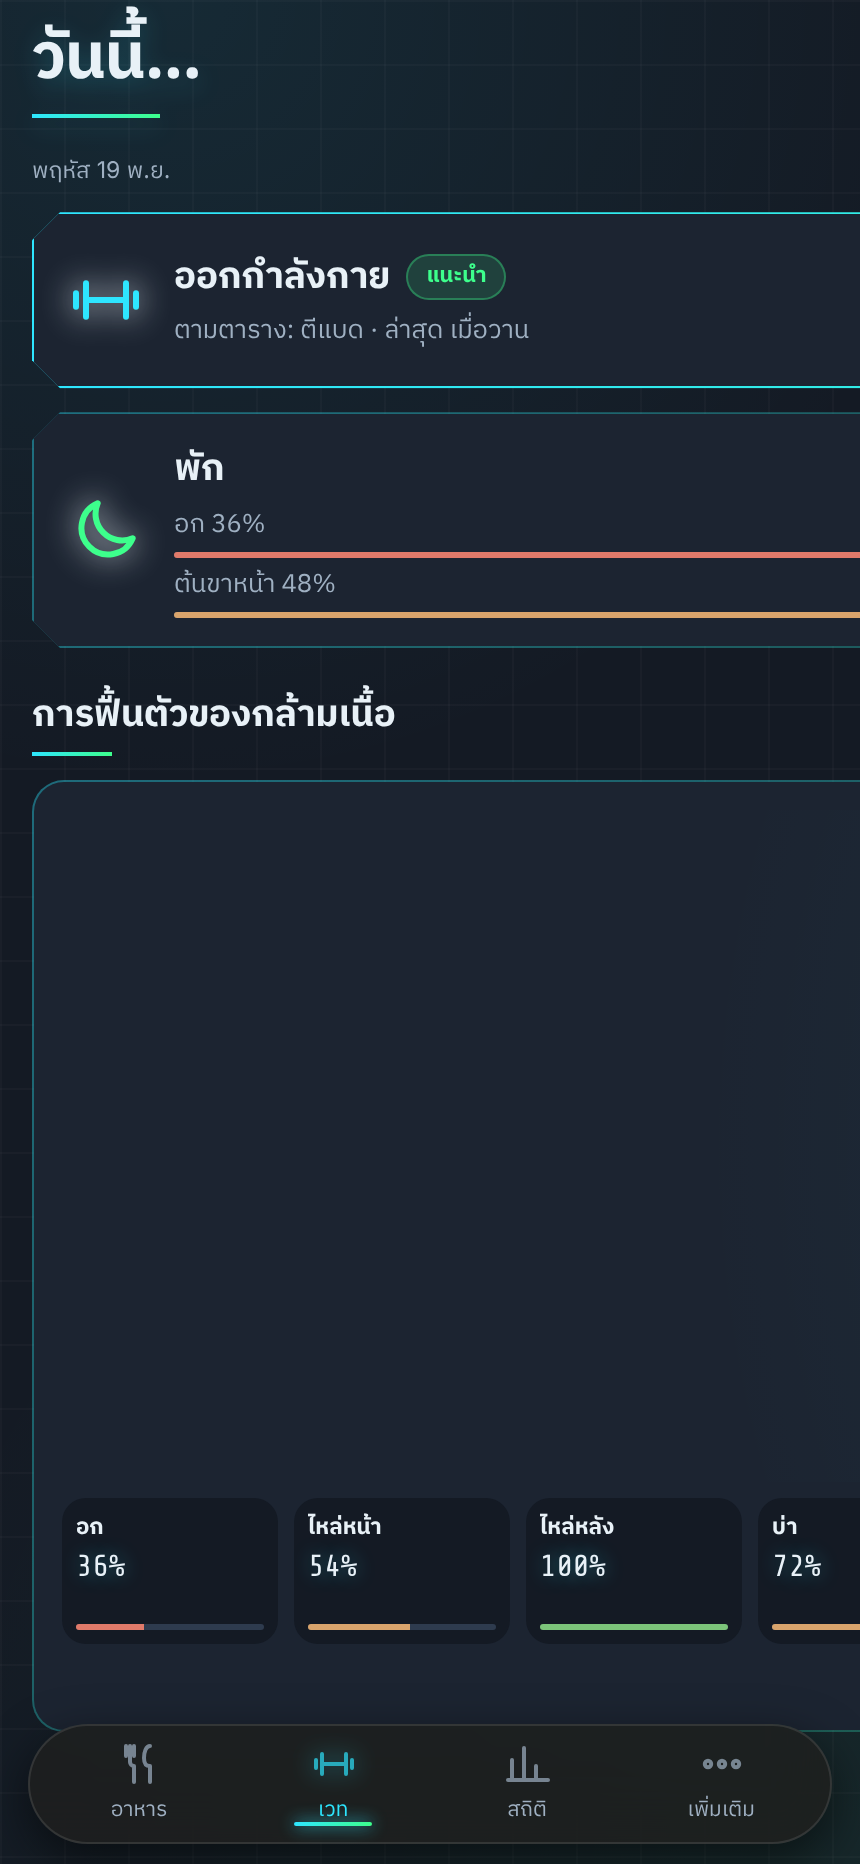
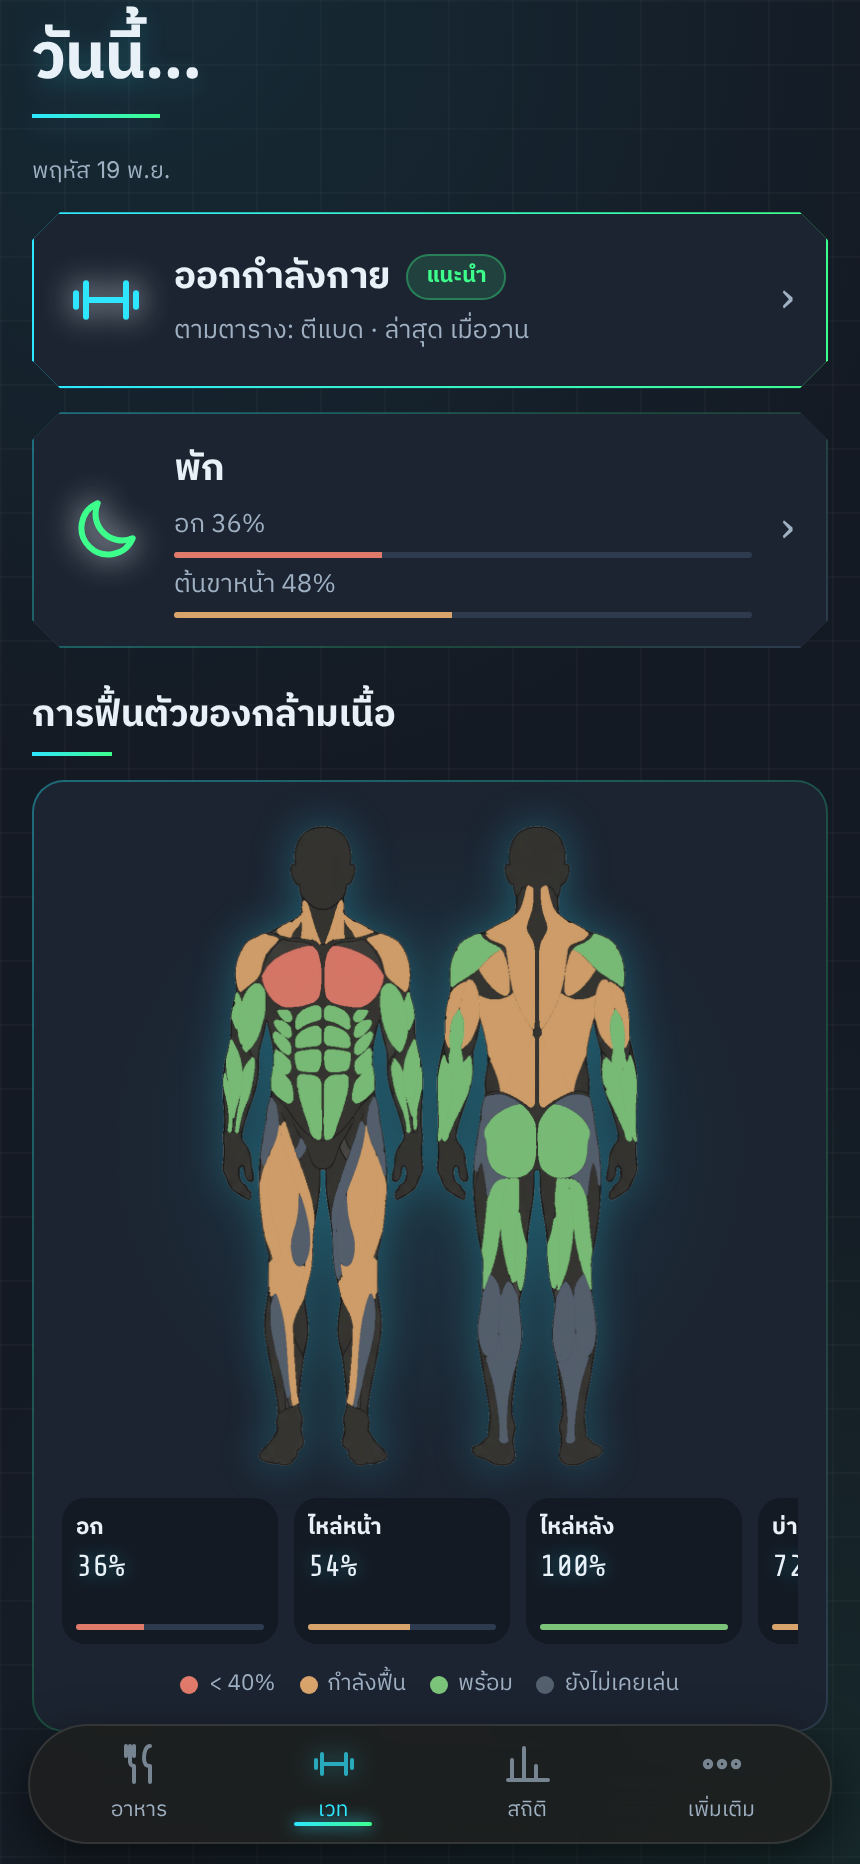
Today: fix width with recovery card
Claude-Session: https://claude.ai/code/session_01TA1QFkMVywvGJMZnY2b9UN

diff --git a/public/index.html b/public/index.html
@@ -8,11 +8,11 @@
 <meta name="apple-mobile-web-app-status-bar-style" content="black-translucent">
 <meta name="apple-mobile-web-app-title" content="Fuel & Lift">
 <link rel="manifest" href="/manifest.webmanifest">
-<link rel="apple-touch-icon" href="/apple-touch-icon.png?v=072600">
+<link rel="apple-touch-icon" href="/apple-touch-icon.png?v=072700">
 <title>Fuel &amp; Lift Log</title>
 <link rel="stylesheet" href="https://fonts.googleapis.com/css2?family=IBM+Plex+Sans+Thai:wght@400;500;700&family=IBM+Plex+Mono:wght@400;500&family=Noto+Serif+Thai:wght@400;500&family=Share+Tech+Mono&family=Orbitron:wght@500;700&display=swap">
 <style>:root{padding-top:env(safe-area-inset-top,0px);padding-bottom:env(safe-area-inset-bottom,0px)}*{-webkit-tap-highlight-color:transparent}body{margin:0;font-size:14px;font-family:system-ui,sans-serif}img{max-width:100%}[hidden]{display:none!important}</style>
-<link rel="stylesheet" href="/css/app.css?v=072600">
+<link rel="stylesheet" href="/css/app.css?v=072700">
 </head><body>
 
 <div class="wrap">
@@ -238,28 +238,28 @@
   </div>
 </div>
 
-<script src="/js/core.js?v=072600"></script>
-<script src="/js/food.js?v=072600"></script>
-<script src="/js/locations.js?v=072600"></script>
-<script src="/js/programs.js?v=072600"></script>
-<script src="/js/run.js?v=072600"></script>
-<script src="/js/workout.js?v=072600"></script>
-<script src="/js/exercise-edit.js?v=072600"></script>
-<script src="/js/exercise-library.js?v=072600"></script>
-<script src="/js/program-manager.js?v=072600"></script>
-<script src="/js/hero.js?v=072600"></script>
-<script src="/js/rest-timer.js?v=072600"></script>
-<script src="/js/auth.js?v=072600"></script>
-<script src="/js/push.js?v=072600"></script>
-<script src="/js/data-io.js?v=072600"></script>
-<script src="/js/sync.js?v=072600"></script>
-<script src="/js/muscle-map.js?v=072600"></script>
-<script src="/js/progress.js?v=072600"></script>
-<script src="/js/history-chart.js?v=072600"></script>
-<script src="/js/stats-extra.js?v=072600"></script>
-<script src="/js/share-card.js?v=072600"></script>
-<script src="/js/number-pad.js?v=072600"></script>
-<script src="/js/refresh.js?v=072600"></script>
-<script src="/js/app.js?v=072600"></script>
+<script src="/js/core.js?v=072700"></script>
+<script src="/js/food.js?v=072700"></script>
+<script src="/js/locations.js?v=072700"></script>
+<script src="/js/programs.js?v=072700"></script>
+<script src="/js/run.js?v=072700"></script>
+<script src="/js/workout.js?v=072700"></script>
+<script src="/js/exercise-edit.js?v=072700"></script>
+<script src="/js/exercise-library.js?v=072700"></script>
+<script src="/js/program-manager.js?v=072700"></script>
+<script src="/js/hero.js?v=072700"></script>
+<script src="/js/rest-timer.js?v=072700"></script>
+<script src="/js/auth.js?v=072700"></script>
+<script src="/js/push.js?v=072700"></script>
+<script src="/js/data-io.js?v=072700"></script>
+<script src="/js/sync.js?v=072700"></script>
+<script src="/js/muscle-map.js?v=072700"></script>
+<script src="/js/progress.js?v=072700"></script>
+<script src="/js/history-chart.js?v=072700"></script>
+<script src="/js/stats-extra.js?v=072700"></script>
+<script src="/js/share-card.js?v=072700"></script>
+<script src="/js/number-pad.js?v=072700"></script>
+<script src="/js/refresh.js?v=072700"></script>
+<script src="/js/app.js?v=072700"></script>
 
 </body></html>

diff --git a/public/css/app.css b/public/css/app.css
@@ -753,3 +753,4 @@ h1,.lp-h{font-family:var(--f-display);font-weight:700;letter-spacing:-.01em}
 .ico-pick{flex:1}.ico-pick .chip{width:44px;height:44px;padding:0;display:grid;place-items:center}.ico-pick .emo{width:22px;height:22px}
 .dp-sub{font-size:1.15rem;margin:8px 0 0;padding-bottom:6px;background:var(--grad) left bottom/40px 2px no-repeat}
 #v-stats #rec-card{display:none}
+.locpick>*{min-width:0;max-width:100%}.rec-slot{min-width:0;overflow:hidden}.locpick{grid-template-columns:minmax(0,1fr)}
